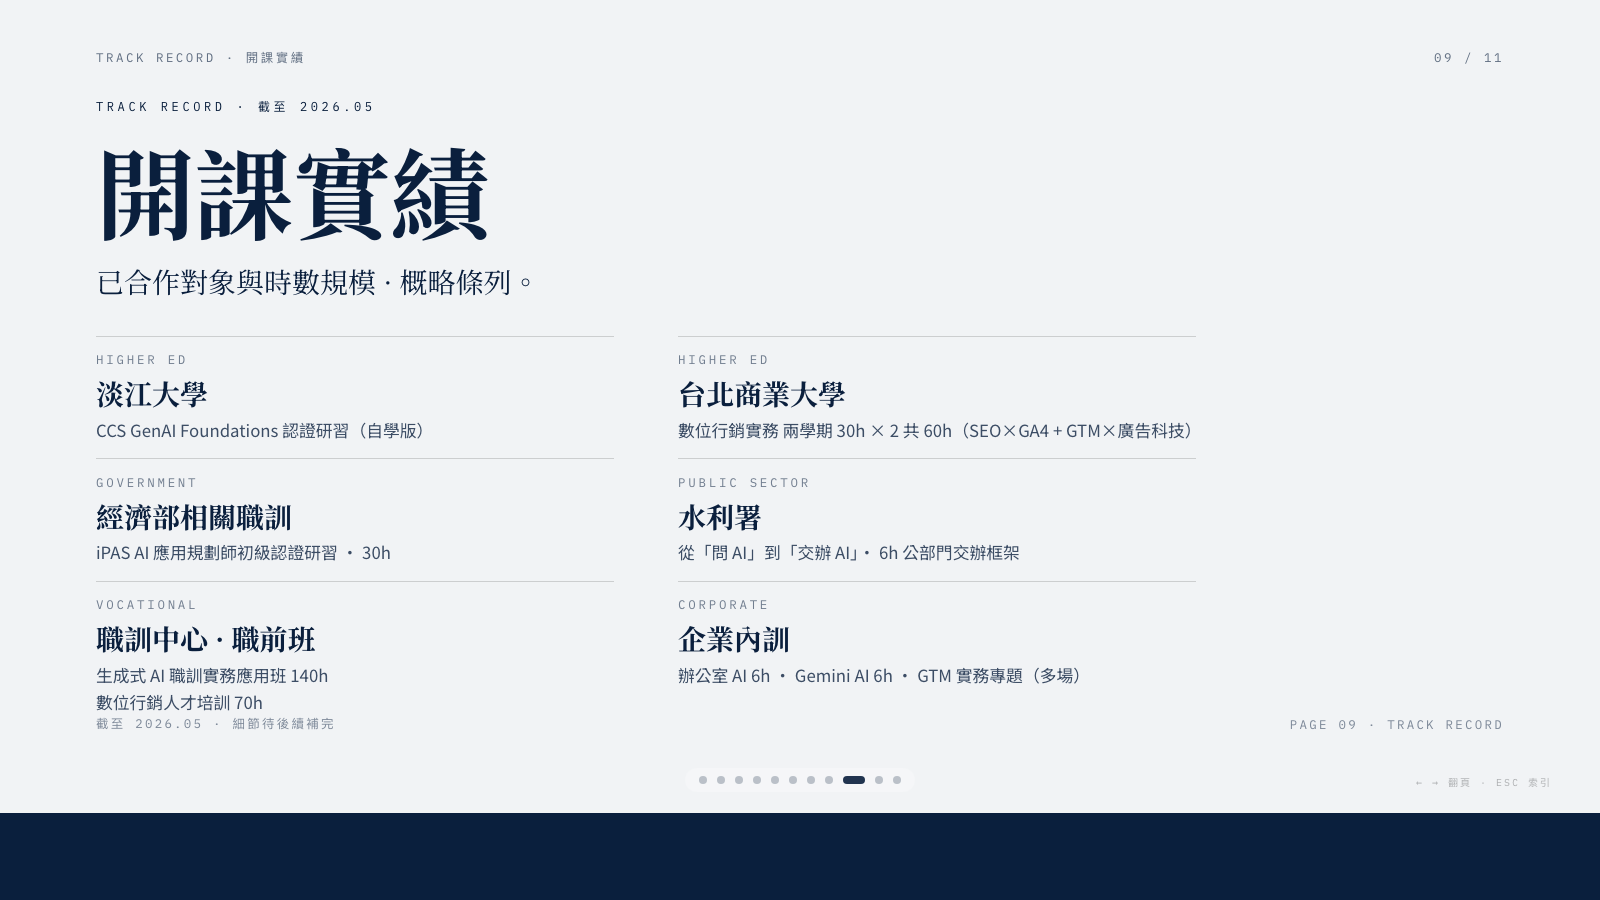
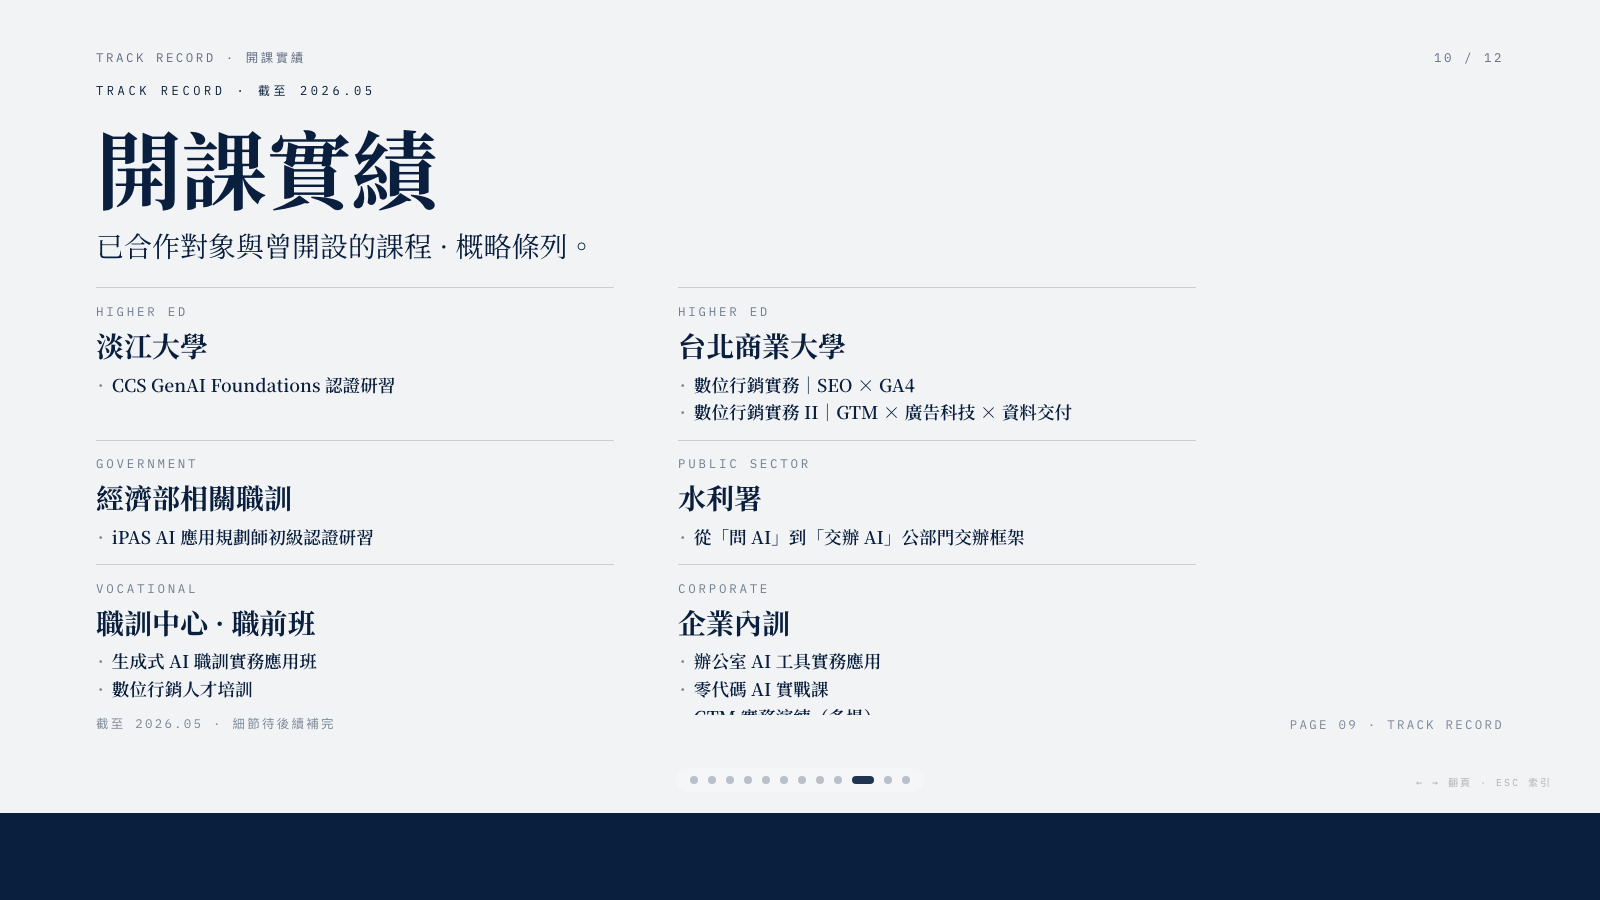
chore(deck): 開課實績去時數、去自學版、課程名稱條列突出
- 移除所有時數標示（30h、60h、140h、70h、6h 等）
- 移除「自學版」字樣（淡江大學 CCS）
- desc 改用 .level-courses 條列樣式：每個機構底下列具體課程名稱
- 「公部門 6h 交辦框架」→「公部門交辦框架」（去時數）
- 「企業內訓」加上第三條 GTM 實務演練（多場）
- 緊湊頁面：title 字級降為 5.4vw、margin-top/bottom 收緊，避免 1600x900 溢出

Changed region(s): [[0.0625, 0.0933, 0.375, 0.8089], [0.4062, 0.3422, 0.75, 0.8089], [0.4375, 0.84, 0.5625, 0.8711]]

diff --git a/index.html b/index.html
@@ -537,43 +537,59 @@
     <div>Track Record · 開課實績</div>
     <div>10 / 12</div>
   </div>
-  <div class="frame" style="padding-top:4vh">
+  <div class="frame" style="padding-top:2vh">
     <div class="kicker" data-anim>Track Record · 截至 2026.05</div>
-    <h2 class="h-xl" data-anim>開課實績</h2>
-    <p class="lead" style="margin-top:2vh; margin-bottom:4vh; max-width:min(720px,92vw)" data-anim>
-      已合作對象與時數規模 · 概略條列。
+    <h2 class="h-xl" style="font-size:clamp(32px,5.4vw,86px)" data-anim>開課實績</h2>
+    <p class="lead" style="margin-top:1.4vh; margin-bottom:2.4vh; max-width:min(720px,92vw)" data-anim>
+      已合作對象與曾開設的課程 · 概略條列。
     </p>
 
     <div style="display:grid; grid-template-columns:repeat(2,1fr); gap:0 4vw; max-width:min(1100px,96vw)">
       <div class="course-line" data-anim>
         <div class="tag">Higher Ed</div>
         <div class="name">淡江大學</div>
-        <div class="desc">CCS GenAI Foundations 認證研習（自學版）</div>
+        <div class="level-courses" style="margin-top:.4vh">
+          <div>CCS GenAI Foundations 認證研習</div>
+        </div>
       </div>
       <div class="course-line" data-anim>
         <div class="tag">Higher Ed</div>
         <div class="name">台北商業大學</div>
-        <div class="desc">數位行銷實務 兩學期 30h × 2 共 60h（SEO×GA4 + GTM×廣告科技）</div>
+        <div class="level-courses" style="margin-top:.4vh">
+          <div>數位行銷實務｜SEO × GA4</div>
+          <div>數位行銷實務 II｜GTM × 廣告科技 × 資料交付</div>
+        </div>
       </div>
       <div class="course-line" data-anim>
         <div class="tag">Government</div>
         <div class="name">經濟部相關職訓</div>
-        <div class="desc">iPAS AI 應用規劃師初級認證研習 · 30h</div>
+        <div class="level-courses" style="margin-top:.4vh">
+          <div>iPAS AI 應用規劃師初級認證研習</div>
+        </div>
       </div>
       <div class="course-line" data-anim>
         <div class="tag">Public Sector</div>
         <div class="name">水利署</div>
-        <div class="desc">從「問 AI」到「交辦 AI」· 6h 公部門交辦框架</div>
+        <div class="level-courses" style="margin-top:.4vh">
+          <div>從「問 AI」到「交辦 AI」公部門交辦框架</div>
+        </div>
       </div>
       <div class="course-line" data-anim>
         <div class="tag">Vocational</div>
         <div class="name">職訓中心 · 職前班</div>
-        <div class="desc">生成式 AI 職訓實務應用班 140h<br>數位行銷人才培訓 70h</div>
+        <div class="level-courses" style="margin-top:.4vh">
+          <div>生成式 AI 職訓實務應用班</div>
+          <div>數位行銷人才培訓</div>
+        </div>
       </div>
       <div class="course-line" data-anim>
         <div class="tag">Corporate</div>
         <div class="name">企業內訓</div>
-        <div class="desc">辦公室 AI 6h · 零代碼 AI 6h · GTM 實務專題（多場）</div>
+        <div class="level-courses" style="margin-top:.4vh">
+          <div>辦公室 AI 工具實務應用</div>
+          <div>零代碼 AI 實戰課</div>
+          <div>GTM 實務演練（多場）</div>
+        </div>
       </div>
     </div>
   </div>
